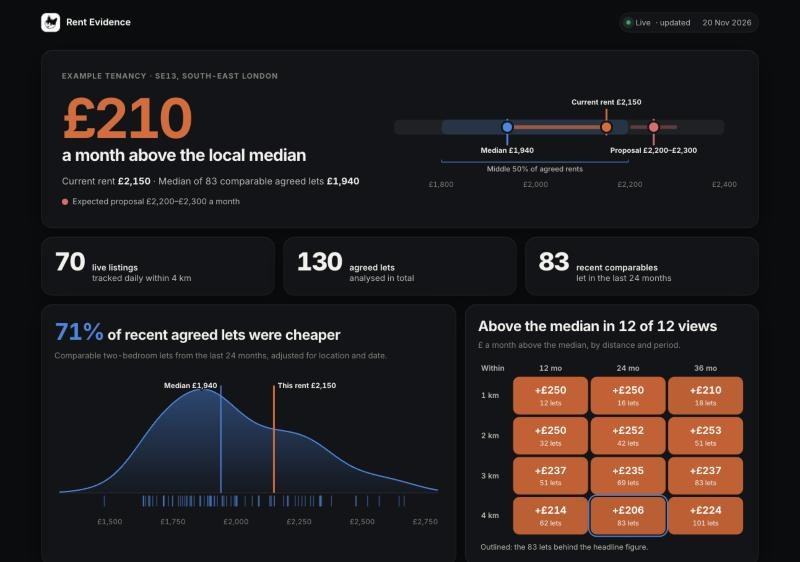
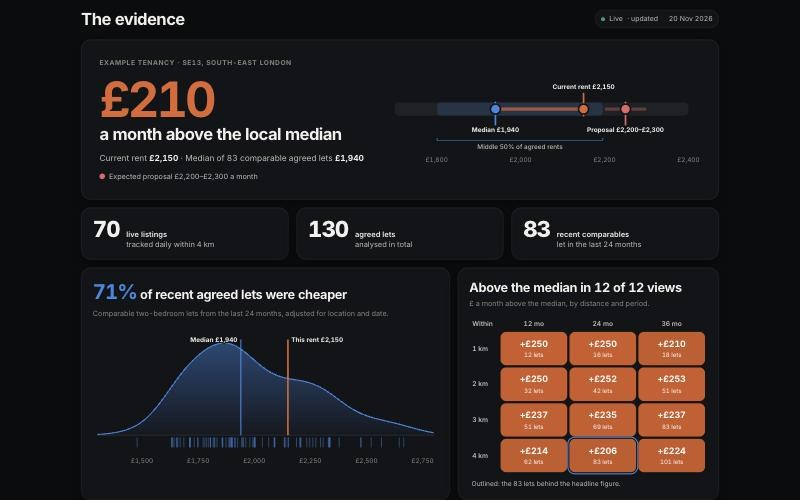
Rent Control JUDO: full-screen hero, smooth scroll, new share card
- Public page opens with a full-screen hero: blurred moss/lichen/slate
  background, the cat over a glowing market curve with the example rent
  and proposal marked, key figures, and a smooth scroll to the evidence
- Cards fade in on scroll (plain jump under reduced motion; hero hidden in print)
- Trend chart x-axis labels the start year
- Share card redrawn to match; README renamed with new screenshots

diff --git a/public_page.py b/public_page.py
@@ -111,7 +111,7 @@ def render():
     d = summary()
     import html as _h
     url = (oc.PUBLIC_SITE_URL or "").rstrip("/") + "/"
-    title = "Rent Evidence: live rent vs market dashboard"
+    title = "Rent Control JUDO: using the force of the market, against itself"
     gap = d["gap"]
     desc = "A live, open-source rent evidence dashboard."
     if gap is not None:
@@ -127,21 +127,21 @@ TEMPLATE = r"""<!doctype html>
 <head>
 <meta charset="utf-8">
 <meta name="viewport" content="width=device-width, initial-scale=1">
-<title>Rent evidence demo</title>
+<title>Rent Control JUDO</title>
 <meta name="description" content="__DESC__">
 <meta name="theme-color" content="#0b0c0e">
 <link rel="icon" type="image/png" sizes="32x32" href="favicon-32.png">
 <link rel="icon" type="image/png" sizes="192x192" href="icon-192.png">
 <link rel="apple-touch-icon" href="apple-touch-icon.png">
 <meta property="og:type" content="website">
-<meta property="og:site_name" content="Rent Evidence">
+<meta property="og:site_name" content="Rent Control JUDO">
 <meta property="og:title" content="__TITLE__">
 <meta property="og:description" content="__DESC__">
 <meta property="og:url" content="__URL__">
 <meta property="og:image" content="__URL__og.png">
 <meta property="og:image:width" content="1200">
 <meta property="og:image:height" content="630">
-<meta property="og:image:alt" content="Rent Evidence: a cat logo and the words 'Live dashboard: a real rent versus the market, updated daily'">
+<meta property="og:image:alt" content="Rent Control JUDO: a cat logo over a glowing rent chart, with the words 'Using the force of the market, against itself'">
 <meta name="twitter:card" content="summary_large_image">
 <meta name="twitter:image" content="__URL__og.png">
 <link rel="preconnect" href="https://fonts.googleapis.com"><link rel="preconnect" href="https://fonts.gstatic.com" crossorigin>
@@ -229,14 +229,99 @@ svg .lbl,svg .strong{paint-order:stroke;stroke:var(--surface);stroke-width:4px;s
 @media (max-width:520px){.live .long{display:none}}
 footer{margin-top:22px;font-size:12px;color:var(--muted);line-height:1.6}
 footer a{color:var(--ink2)}
+/* ---------- Hero: Rent Control JUDO ---------- */
+html{scroll-behavior:smooth}
+@media (prefers-reduced-motion: reduce){html{scroll-behavior:auto}}
+.jd{position:relative;min-height:100svh;overflow:hidden;overflow:clip;color:#f4f3ef;background:#141813;isolation:isolate;display:flex;flex-direction:column}
+.jd-bg{position:absolute;inset:-12%;z-index:-3;filter:blur(46px) saturate(1.15);
+  background:
+    radial-gradient(40% 48% at 18% 32%, rgba(132,170,56,1), transparent 70%),
+    radial-gradient(30% 34% at 34% 16%, rgba(190,214,96,.7), transparent 70%),
+    radial-gradient(36% 42% at 70% 58%, rgba(236,134,42,.95), transparent 70%),
+    radial-gradient(28% 32% at 88% 84%, rgba(224,110,38,.7), transparent 70%),
+    radial-gradient(52% 48% at 52% 96%, rgba(62,76,90,.95), transparent 72%),
+    radial-gradient(34% 34% at 92% 12%, rgba(57,135,229,.30), transparent 70%),
+    linear-gradient(165deg,#1e2717 0%,#2a2f27 46%,#222a33 100%);
+  animation:jdDrift 28s ease-in-out infinite alternate}
+@keyframes jdDrift{0%{transform:translate3d(0,0,0) scale(1)}50%{transform:translate3d(-2%,1.5%,0) scale(1.04)}100%{transform:translate3d(1.5%,-1%,0) scale(1.02)}}
+.jd-mesh{position:absolute;inset:0;z-index:-2;opacity:.55;pointer-events:none;
+  background-image:linear-gradient(rgba(255,255,255,.035) 1px,transparent 1px),linear-gradient(90deg,rgba(255,255,255,.035) 1px,transparent 1px);
+  background-size:3px 3px}
+.jd-shade{position:absolute;inset:0;z-index:-1;pointer-events:none;
+  background:linear-gradient(90deg,rgba(10,12,10,.5) 0%,rgba(10,12,10,.18) 55%,rgba(10,12,10,.05) 100%),
+             linear-gradient(180deg,rgba(0,0,0,.15) 0%,transparent 30%,transparent 70%,var(--page) 100%)}
+.jd-nav{display:flex;align-items:center;justify-content:space-between;gap:16px;padding:22px clamp(16px,3vw,40px)}
+.jd-brand{display:flex;align-items:center;gap:12px;font-weight:700;font-size:17px;letter-spacing:-.01em;color:#fff;text-decoration:none;white-space:nowrap}
+.jd-brand img{width:36px;height:36px;border-radius:10px;display:block}
+.jd-links{display:flex;gap:clamp(16px,2.6vw,40px);font-size:15px}
+.jd-links a{color:rgba(244,243,239,.82);text-decoration:none;font-weight:500}
+.jd-links a:hover{color:#fff}
+.jd-pill{display:inline-flex;align-items:center;gap:8px;background:#fff;color:#0b0b0b;text-decoration:none;font-weight:600;font-size:15px;padding:12px 22px;border-radius:999px;white-space:nowrap}
+.jd-pill:focus-visible,.jd-ghost:focus-visible,.jd-links a:focus-visible{outline:2px solid #fff;outline-offset:3px}
+.jd-body{flex:1;display:grid;grid-template-columns:minmax(0,1.15fr) minmax(0,.85fr);align-items:center;gap:clamp(24px,4vw,64px);
+  padding:clamp(24px,6vh,72px) clamp(16px,3vw,40px) clamp(56px,10vh,110px);max-width:1360px;width:100%;margin:0 auto;box-sizing:border-box}
+.jd-title{font-weight:800;font-size:clamp(52px,8.4vw,128px);line-height:.92;letter-spacing:-.045em;margin:0;text-wrap:balance}
+.jd-title .o{color:#ff7d3b;display:block}
+.jd-tag{font-size:clamp(20px,2.2vw,30px);line-height:1.25;letter-spacing:-.02em;font-weight:500;color:rgba(244,243,239,.9);margin:22px 0 0;max-width:22ch}
+.jd-rule{height:2px;max-width:520px;margin:30px 0 14px;background:linear-gradient(90deg,#ff7d3b,rgba(255,125,59,.15))}
+.jd-keys{display:flex;flex-wrap:wrap;gap:10px 18px;font-size:13.5px;color:rgba(244,243,239,.78)}
+.jd-keys span{display:inline-flex;align-items:center;gap:8px}
+.jd-keys i{display:inline-block;width:34px;height:8px;border-radius:999px}
+.jd-ctas{display:flex;flex-wrap:wrap;gap:12px;margin-top:30px}
+.jd-ghost{display:inline-flex;align-items:center;gap:8px;color:#fff;text-decoration:none;font-weight:600;font-size:15px;padding:11px 20px;border-radius:999px;border:1px solid rgba(255,255,255,.4);background:rgba(255,255,255,.06);backdrop-filter:blur(6px)}
+.jd-card{position:relative;aspect-ratio:1/1;width:100%;max-width:520px;justify-self:end;border-radius:28px;
+  background:rgba(12,14,16,.58);border:1px solid rgba(255,255,255,.12);backdrop-filter:blur(14px);
+  box-shadow:0 30px 80px rgba(0,0,0,.45);overflow:hidden}
+.jd-card svg{position:absolute;inset:0;width:100%;height:100%}
+.jd-cat{position:absolute;left:42%;top:48%;width:56%;transform:translate(-50%,-50%);filter:drop-shadow(0 0 28px rgba(57,135,229,.45)) drop-shadow(0 12px 30px rgba(0,0,0,.5));
+  animation:jdFloat 7s ease-in-out infinite}
+@keyframes jdFloat{0%,100%{transform:translate(-50%,-50%)}50%{transform:translate(-50%,-53%)}}
+.jd-stat{position:absolute;left:18px;bottom:16px;right:18px;display:flex;justify-content:space-between;align-items:flex-end;gap:10px;font-size:12.5px;color:rgba(244,243,239,.75)}
+.jd-stat b{display:block;font-size:26px;letter-spacing:-.03em;color:#fff;line-height:1}
+.jd-down{position:absolute;left:50%;bottom:22px;transform:translateX(-50%);display:flex;flex-direction:column;align-items:center;gap:6px;color:rgba(244,243,239,.75);text-decoration:none;font-size:12px;letter-spacing:.12em;text-transform:uppercase}
+.jd-down svg{width:22px;height:22px;animation:jdBob 2.2s ease-in-out infinite}
+@keyframes jdBob{0%,100%{transform:translateY(0)}50%{transform:translateY(5px)}}
+@media (max-width:900px){.jd-body{grid-template-columns:1fr}.jd-card{justify-self:start;max-width:420px}.jd-links{display:none}}
+@media (max-width:520px){.jd-pill{padding:10px 16px;font-size:14px}.jd-nav > .jd-pill{display:none}.jd-card{max-width:none}.jd-down{display:none}}
+@media (prefers-reduced-motion: reduce){.jd-bg,.jd-cat,.jd-down svg{animation:none}}
+.dash-head{display:flex;align-items:center;justify-content:space-between;gap:12px;margin:8px 0 18px;scroll-margin-top:16px}
+.dash-head h2{font-size:clamp(22px,2.6vw,30px);letter-spacing:-.035em}
+.reveal{opacity:0;transform:translateY(18px);transition:opacity .7s ease,transform .7s cubic-bezier(.2,.7,.2,1)}
+.reveal.in{opacity:1;transform:none}
+@media (prefers-reduced-motion: reduce){.reveal{opacity:1;transform:none;transition:none}}
+@media print{.jd{display:none}.reveal{opacity:1;transform:none}}
 </style>
 </head>
 <body>
-<main>
-  <nav>
-    <div class="brand"><img class="mark" src="logo-64.png" width="30" height="30" alt="">Rent Evidence</div>
-    <div class="live"><span class="dot" aria-hidden="true"></span>Live<span class="long"> · updated</span>&nbsp;<span id="gen"></span></div>
+<header class="jd" aria-label="Rent Control JUDO">
+  <div class="jd-bg" aria-hidden="true"></div><div class="jd-mesh" aria-hidden="true"></div><div class="jd-shade" aria-hidden="true"></div>
+  <nav class="jd-nav">
+    <a class="jd-brand" href="#top" id="top"><img src="logo-64.png" width="36" height="36" alt="">Rent Control JUDO</a>
+    <div class="jd-links"><a href="#evidence">The evidence</a><a href="#h-trend">Trend</a><a href="#h-how">How it works</a><a id="jd-code" href="#">Code</a></div>
+    <a class="jd-pill" href="#evidence">See the evidence</a>
   </nav>
+  <div class="jd-body">
+    <div>
+      <h1 class="jd-title">Rent Control <span class="o">JUDO</span></h1>
+      <p class="jd-tag">Using the force of the market, against itself.</p>
+      <div class="jd-rule" aria-hidden="true"></div>
+      <div class="jd-keys"><span><i style="background:#3987e5"></i>Market</span><span><i style="background:#e2652f"></i>This rent</span><span><i style="background:#e66767"></i>Proposal</span></div>
+      <div class="jd-ctas"><a class="jd-pill" href="#evidence">See the evidence ↓</a><a class="jd-ghost" id="jd-code2" href="#">View the code</a></div>
+    </div>
+    <div class="jd-card" aria-hidden="true">
+      <svg id="jd-chart" viewBox="0 0 400 400" preserveAspectRatio="none"></svg>
+      <img class="jd-cat" src="logo-512.png" alt="">
+      <div class="jd-stat"><div><b id="jd-gap"></b>a month above the local median</div><div style="text-align:right"><b id="jd-n"></b>agreed lets compared</div></div>
+    </div>
+  </div>
+  <a class="jd-down" href="#evidence" aria-label="Scroll to the evidence"><span>Scroll</span>
+    <svg viewBox="0 0 24 24" fill="none" stroke="currentColor" stroke-width="2" stroke-linecap="round" stroke-linejoin="round"><path d="M6 9l6 6 6-6"/></svg></a>
+</header>
+<main>
+  <div class="dash-head" id="evidence">
+    <h2>The evidence</h2>
+    <div class="live"><span class="dot" aria-hidden="true"></span>Live<span class="long"> · updated</span>&nbsp;<span id="gen"></span></div>
+  </div>
 
   <div class="grid">
     <section class="card s12 hero" aria-label="Headline">
@@ -472,7 +557,10 @@ function trend() {
   const x = d => m.l + (new Date(d) - t0) / (t1 - t0) * (W - m.l - m.r), y = v => H - m.b - (v - lo) / (hi - lo) * (H - m.t - m.b);
   const svg = el("svg", {viewBox: `0 0 ${W} ${H}`, role: "img", "aria-label": "Agreed rents over time against this tenancy's rent"}, box);
   ticks(lo, hi, 5).forEach(t => { el("line", {x1: m.l, x2: W - m.r, y1: y(t), y2: y(t), class: "gl"}, svg); tx(svg, m.l - 8, y(t) + 4, gbp(t), null, "end"); });
-  for (let yr = t0.getFullYear(); yr <= t1.getFullYear(); yr++) { const d = new Date(yr, 0, 1); if (d >= t0) tx(svg, x(d), H - 6, String(yr), null, "middle"); }
+  // Year labels at each 1 January; if the series starts mid-year, label that first year at the start too.
+  if (t0.getMonth() > 0 || t0.getDate() > 1) tx(svg, x(t0), H - 6, String(t0.getFullYear()), null, "start");
+  for (let yr = t0.getFullYear(); yr <= t1.getFullYear(); yr++) { const d = new Date(yr, 0, 1);
+    if (d >= t0) { el("line", {x1: x(d), x2: x(d), y1: H - m.b, y2: H - m.b + 4, class: "ax"}, svg); tx(svg, x(d), H - 6, String(yr), null, "middle"); } }
   const xm = s => x(s + "-15");
   el("path", {d: T.map((t, i) => (i ? "L" : "M") + xm(t.m) + "," + y(t.q3)).join("") + [...T].reverse().map(t => "L" + xm(t.m) + "," + y(t.q1)).join("") + "Z", fill: "var(--mkt-wash)"}, svg);
   el("path", {d: T.map((t, i) => (i ? "L" : "M") + xm(t.m) + "," + y(t.med)).join(""), fill: "none", stroke: "var(--mkt)", "stroke-width": 2.5, "stroke-linejoin": "round"}, svg);
@@ -517,8 +605,44 @@ function byKm() {
   tx(svg, W - m.r, y(RENT) - 8, `This rent ${gbp(RENT)}`, "strong", "end");
 }
 
-function all() { header(); heroBar(); dist(); cells(); trend(); byKm(); }
-all();
+function judo() {
+  if (D.repo) { $("#jd-code").href = D.repo; $("#jd-code2").href = D.repo; } else { $("#jd-code").remove(); $("#jd-code2").remove(); }
+  $("#jd-gap").textContent = D.gap == null ? "–" : gbp(Math.abs(D.gap));
+  $("#jd-n").textContent = P.length;
+  // the card's chart: grid, the real distribution as a glowing blue curve, this rent as an orange line
+  const svg = $("#jd-chart"); svg.innerHTML = "";
+  const S = 400, pad = 24, lo = Math.min(...P, RENT) - 150, hi = Math.max(...P, RENT) + 150;
+  const x = v => pad + (v - lo) / (hi - lo) * (S - 2 * pad);
+  const K = kde(P, lo, hi, 80), ym = Math.max(...K.map(k => k[1])), y = d => S * 0.82 - d / ym * S * 0.6;
+  const defs = el("defs", {}, svg), f = el("filter", {id: "jdglow", filterUnits: "userSpaceOnUse", x: 0, y: 0, width: S, height: S}, defs);
+  el("feGaussianBlur", {stdDeviation: 6, result: "b"}, f); const mg = el("feMerge", {}, f); el("feMergeNode", {in: "b"}, mg); el("feMergeNode", {in: "SourceGraphic"}, mg);
+  for (let i = 1; i < 6; i++) { el("line", {x1: S * i / 6, x2: S * i / 6, y1: 0, y2: S, stroke: "rgba(255,255,255,.07)"}, svg);
+    el("line", {x1: 0, x2: S, y1: S * i / 6, y2: S * i / 6, stroke: "rgba(255,255,255,.07)"}, svg); }
+  el("path", {d: K.map((k, i) => (i ? "L" : "M") + x(k[0]) + "," + y(k[1])).join(""), fill: "none", stroke: "#3987e5", "stroke-width": 4, filter: "url(#jdglow)", "stroke-linecap": "round"}, svg);
+  el("line", {x1: x(RENT), x2: x(RENT), y1: S * .12, y2: S * .9, stroke: "#ff7d3b", "stroke-width": 4, filter: "url(#jdglow)"}, svg);
+  if (D.proposed) { const pm = (D.proposed[0] + D.proposed[1]) / 2; el("line", {x1: x(pm), x2: x(pm), y1: S * .2, y2: S * .9, stroke: "#e66767", "stroke-width": 2, "stroke-dasharray": "4 6", opacity: .8}, svg); }
+  // place the cat to the left of this rent's line, so the line stays visible beside it
+  const rx = x(RENT) / S * 100, w = Math.max(40, Math.min(56, rx * 0.9));
+  const cat = $(".jd-cat"); cat.style.width = w + "%"; cat.style.left = Math.max(w / 2 + 2, rx - w / 2 - 4) + "%";
+}
+
+function reveals() {
+  // Fade cards up as they come into view. Robust by design: position checks on scroll (no reliance on
+  // IntersectionObserver), and a safety net that shows everything after 2.5 s whatever happens.
+  if (matchMedia("(prefers-reduced-motion: reduce)").matches) return;
+  const els = [...document.querySelectorAll("main .card, main .dash-head")];
+  els.forEach((e, i) => { if (e.getBoundingClientRect().top > innerHeight * 0.92) { e.classList.add("reveal"); e.style.transitionDelay = (i % 3) * 60 + "ms"; } });
+  let ticking = false;
+  const check = () => { ticking = false; const lim = innerHeight * 0.94;
+    document.querySelectorAll(".reveal:not(.in)").forEach(e => { if (e.getBoundingClientRect().top < lim) e.classList.add("in"); }); };
+  addEventListener("scroll", () => { if (!ticking) { ticking = true; requestAnimationFrame(check); } }, {passive: true});
+  addEventListener("resize", check);
+  setTimeout(() => document.querySelectorAll(".reveal").forEach(e => e.classList.add("in")), 2500);
+  check();
+}
+
+function all() { header(); heroBar(); dist(); cells(); trend(); byKm(); judo(); }
+all(); reveals();
 let lw = innerWidth; addEventListener("resize", () => { if (Math.abs(innerWidth - lw) > 40) { lw = innerWidth; all(); } });
 matchMedia("(prefers-color-scheme: dark)").addEventListener("change", all);
 </script>

diff --git a/public_site.py b/public_site.py
@@ -117,7 +117,7 @@ def build():
         f.write(html)
     import shutil
     brand = os.path.join(HERE, "docs", "brand")
-    for name in ("favicon-32.png", "icon-192.png", "apple-touch-icon.png", "logo-64.png", "og.png"):
+    for name in ("favicon-32.png", "icon-192.png", "apple-touch-icon.png", "logo-64.png", "logo-512.png", "og.png"):
         if os.path.exists(os.path.join(brand, name)):
             shutil.copyfile(os.path.join(brand, name), os.path.join(OUT_DIR, name))
     with open(os.path.join(OUT_DIR, "_headers"), "w") as f:

diff --git a/README.md b/README.md
@@ -1,15 +1,17 @@
 <p align="center">
-  <img src="docs/brand/icon-192.png" width="96" height="96" alt="Rent Evidence logo: a black-and-white cat">
+  <img src="docs/brand/icon-192.png" width="96" height="96" alt="Rent Control JUDO logo: a black-and-white cat">
 </p>
 
-<h1 align="center">Rent Evidence</h1>
+<h1 align="center">Rent Control JUDO</h1>
+
+<p align="center"><i>Using the force of the market, against itself.</i></p>
 
 <p align="center"><b>Gather your own evidence to challenge a rent increase at the First-tier Tribunal: automatically, every day.</b></p>
 
 <p align="center"><a href="https://rent-evidence-demo.pages.dev"><b>Live demo →</b></a></p>
 
 <p align="center">
-  <a href="https://rent-evidence-demo.pages.dev"><img src="docs/screenshots/dashboard-dark.jpg" width="820" alt="Public dashboard: a rent £210 a month above the market rate, with key figures and charts"></a>
+  <a href="https://rent-evidence-demo.pages.dev"><img src="docs/screenshots/hero-dark.jpg" width="820" alt="Rent Control JUDO: the cat logo over a glowing chart of agreed rents, with the example rent marked"></a>
 </p>
 
 Since 1 May 2026 (the Renters' Rights Act 2025), a private landlord in England can only raise the rent with a
@@ -25,16 +27,21 @@ copy so others can see how it works.
 
 ## The public dashboard
 
-One number up front (how far the rent sits above the local median), three headline figures (live listings,
+A full-screen opening section (the cat over the live rent curve, with the example rent and the expected proposal
+marked) scrolls smoothly down to the evidence: one number up front (how far the rent sits above the local median), three headline figures (live listings,
 agreed lets analysed, recent comparables), and four charts: how many recent lets were cheaper, a grid showing
 the rent above the median at every distance and period (the group behind the headline outlined), agreed rents
 over time against the official ONS average, and every let by distance. Hover anything for the figures behind it.
 It follows the viewer's light or dark setting and works on a phone.
 
 <p align="center">
+  <img src="docs/screenshots/dashboard-dark.jpg" width="820" alt="The evidence: a rent £210 a month above the local median, with key figures, the distribution of agreed rents and the distance-by-period grid">
+</p>
+
+<p align="center">
   <img src="docs/screenshots/charts-light.jpg" width="560" alt="Light mode: agreed rents over time, and agreed rents by distance with the example rent marked">
   &nbsp;
-  <img src="docs/screenshots/mobile-dark.jpg" width="230" alt="Phone view in dark mode">
+  <img src="docs/screenshots/mobile-dark.jpg" width="230" alt="Phone view of the opening section in dark mode">
 </p>
 
 The full working (evidence log, every adjustment line by line, tribunal decisions, a spreadsheet laid out for the
